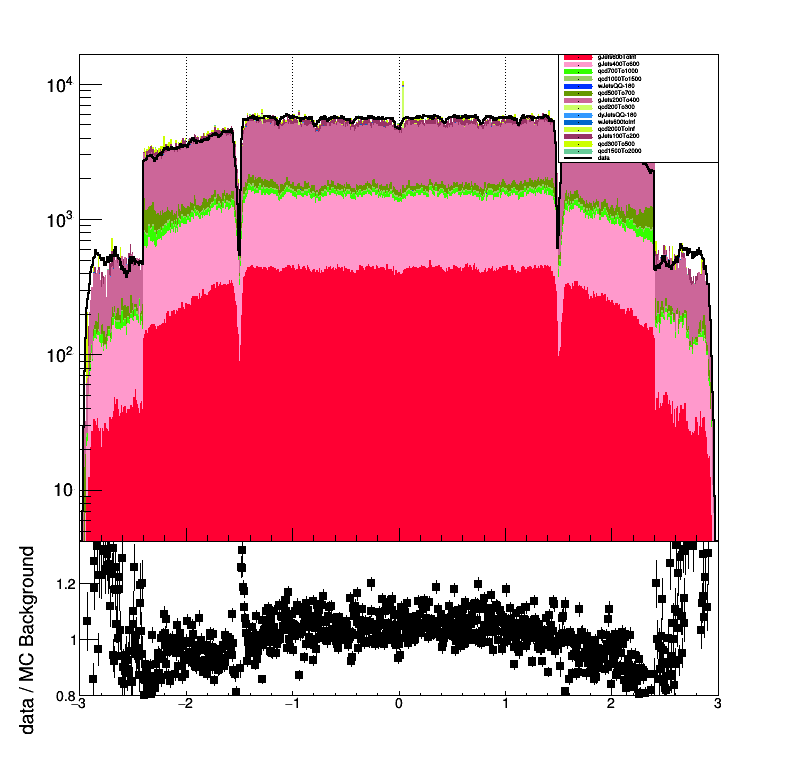
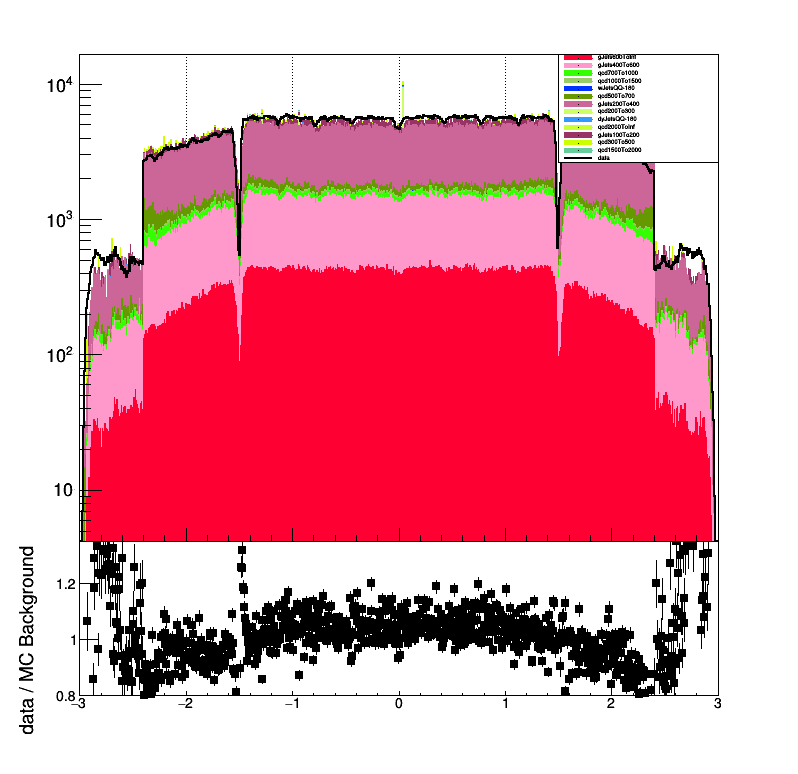
updating plots

Changed region(s): [[0.6917, 0.062, 0.812, 0.2171]]

diff --git a/getMCbgWeights.py b/getMCbgWeights.py
@@ -10,8 +10,9 @@ def getSmallPrefix():
   return "smallified_"
 
 #TODO: Bring back other bkgs commented out
-def getMCbgSampleKfactors():
+def getMCbgSampleKfactor(bkg):
   sampleXsects = {}
+  scale = 0.9
   sampleXsects[   "gJets100To200.root"   ]   = 1.6
   sampleXsects[   "gJets200To400.root"   ]   = 1.6
   sampleXsects[   "gJets400To600.root"   ]   = 1.4
@@ -25,11 +26,10 @@ def getMCbgSampleKfactors():
   sampleXsects[   "qcd200To300.root"     ]  = 1   
   sampleXsects[   "dyJetsQQ-180.root"    ]  = 1.23  
   sampleXsects[ "wJetsQQ-180.root" ]        = 1.21 
-  sampleXsects[ "wJets600toInf"]              = 1.21
-  return sampleXsects
+  sampleXsects[ "wJets600toInf.root"]              = 1.21
+  return sampleXsects[bkg]*scale
 
 def getMCbgSampleXsects():
-  kFactors = getMCbgSampleKfactors()
   sampleXsects = {}
   sampleXsects[   "gJets100To200.root"   ]   = 9238
   sampleXsects[   "gJets200To400.root"   ]   = 2305
@@ -45,7 +45,7 @@ def getMCbgSampleXsects():
   sampleXsects[   "dyJetsQQ-180.root"    ]    = 1187  
   sampleXsects[ "wJetsQQ-180.root" ] = 95.14 
   #TODO:
-  sampleXsects[ "wJets600toInf"]      = -1
+  sampleXsects[ "wJets600toInf.root"]      = 96
   return sampleXsects
 
 def getMCbgSampleEvents(small3Dir):
@@ -73,7 +73,6 @@ def getSignalsToInclude():
  
 #TODO: signal weights
 def getWeightsDict(bkgSmall3Dir):
-  sampleKfactors = getMCbgSampleKfactors() 
   sampleXsects   = getMCbgSampleXsects() 
   sampleEvents   = getMCbgSampleEvents(bkgSmall3Dir)
   #TODO: Update for 2017
@@ -84,7 +83,7 @@ def getWeightsDict(bkgSmall3Dir):
   for name in listdir(bkgSmall3Dir):
     key = name[11:]
     expectedEvents = lumi*sampleXsects[key]
-    weight = sampleKfactors[key]*expectedEvents/sampleEvents[key]
+    weight = getMCbgSampleKfactor(key)*expectedEvents/sampleEvents[key]
     sampleWeights[key] = (weight, "bkg")
   signalWeight = .5
   #for signalToInclude in getSignalsToInclude():
@@ -164,7 +163,7 @@ def getMCbgLabels():
   legendLabels["qcd2000ToInf.root"  ] = "QCD[2000,#infty]"
   legendLabels["dyJetsQQ-180.root"  ] = "DY#plusjets[180,#infty]"
   legendLabels["wJetsQQ-180.root"   ] = "W#plusjets[600,#infty]"
-  legendLabels["QCD_HT100to200"       ] = "QCD[100,200]"
+  legendLabels["QCD_HT100to200.root"       ] = "QCD[100,200]"
   return legendLabels
 
 def getSmall3ddTreeDict(ddDir):

diff --git a/mcBkgCheck.py b/mcBkgCheck.py
@@ -207,7 +207,7 @@ def plotComparison(observable):
 
 
 
-#for ob in histRanges.keys():
-  #plotComparison(ob)
+for ob in histRanges.keys():
+  plotComparison(ob)
 
-plotComparison("ph_pt")
+#plotComparison("jetAK8_puppi_softdrop_mass")
